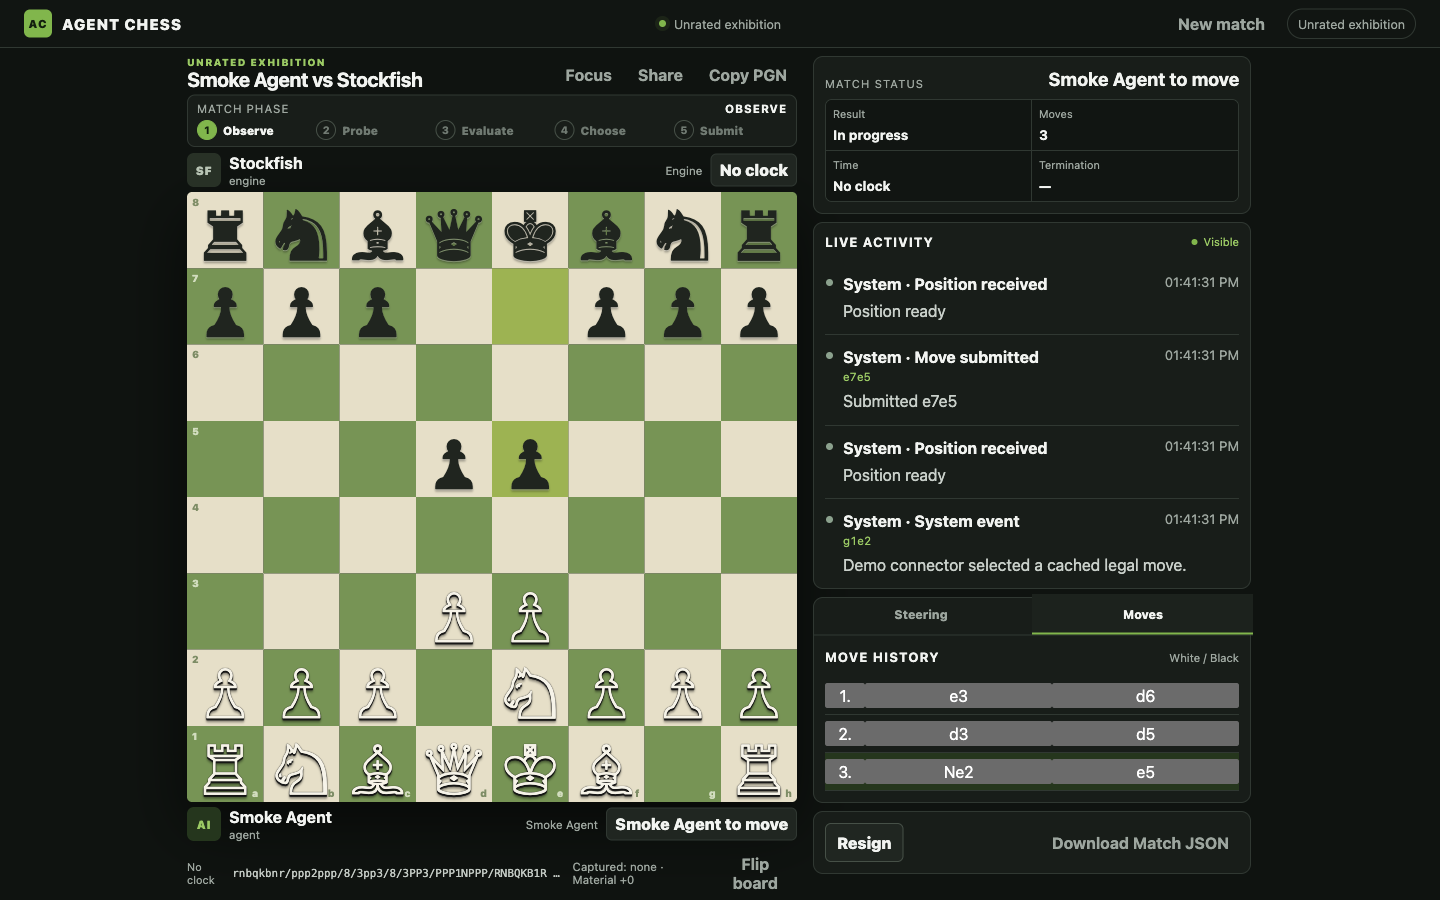
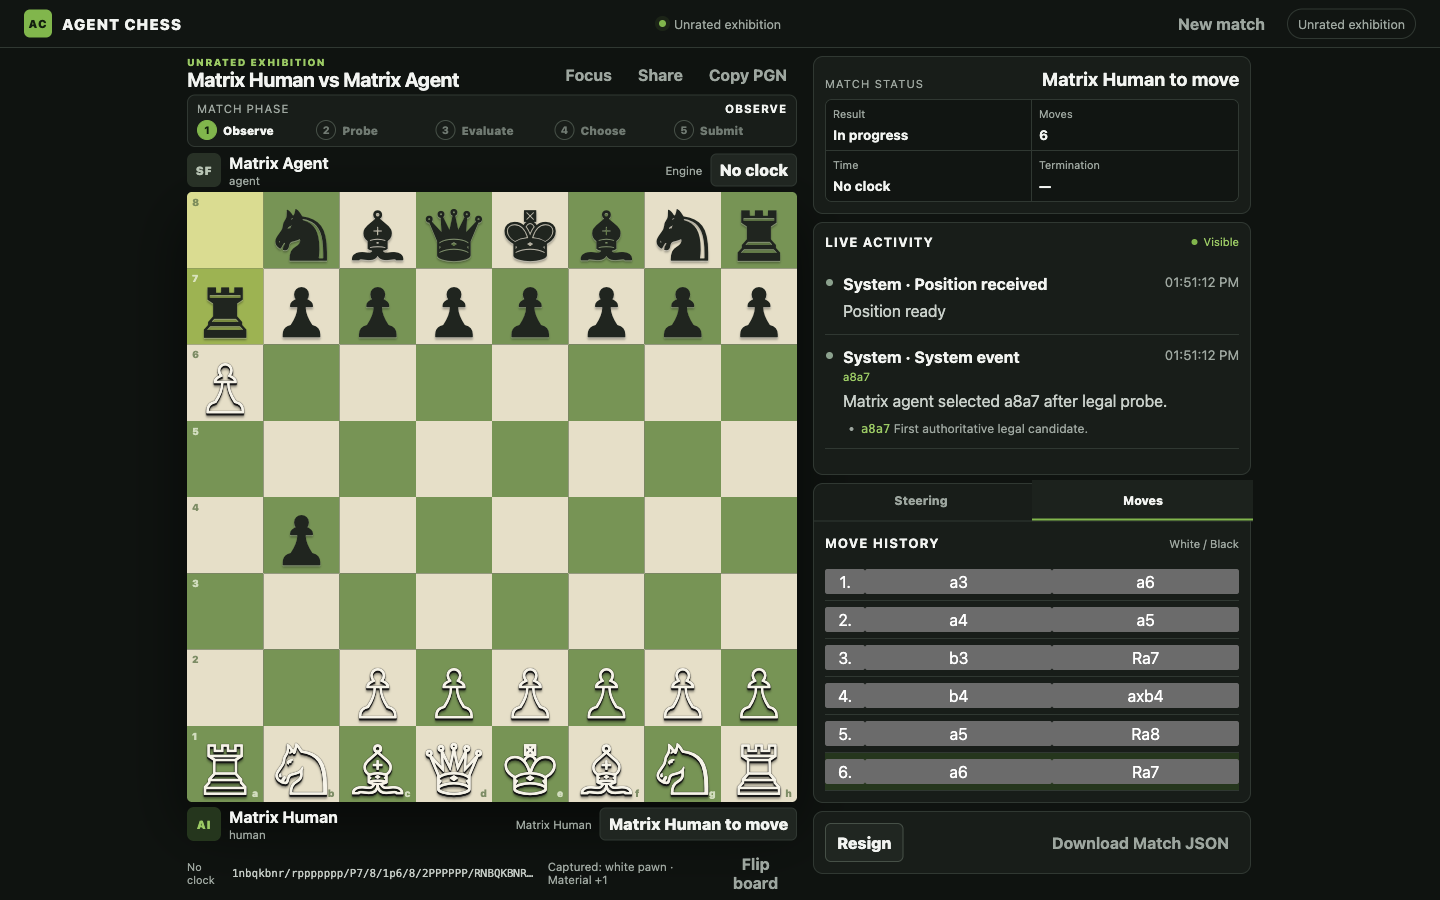
test: extend core exhibition evidence

diff --git a/agent-chess-build-packet-v2/docs/validation/core-exhibition-validation.md b/agent-chess-build-packet-v2/docs/validation/core-exhibition-validation.md
@@ -1,8 +1,8 @@
 # Core exhibition validation
 
-Status: **PARTIAL — no-go for clock/polish acceptance.**
+Status: **PARTIAL — external audit remains blocker.**
 
-Validation baseline: `93fd7dc8b9f515738d1b83939de2aad038f5eddf`.
+Validated code commit: `ecfa6b4cca56ea57a938f92f69bc4fe21fa80400`.
 
 ## Environment
 
@@ -16,7 +16,7 @@ Validation baseline: `93fd7dc8b9f515738d1b83939de2aad038f5eddf`.
 | --- | --- |
 | `npm test` | PASS — 161 tests, 161 pass, 0 fail; 2132.081417 ms. Initial sandbox-only run had 143 pass/17 `listen EPERM`; elevated loopback run is authoritative. |
 | `node --test test/stockfish.test.js` | PASS — 2 tests, 2 pass. Added regression covers two sequential real engine starts. |
-| `npm audit --audit-level=high` | NOT RUN TO COMPLETION — sandbox DNS returned `getaddrinfo ENOTFOUND registry.npmjs.org`; elevated audit was rejected because it would send dependency metadata to registry. No vulnerability result is claimed. |
+| `npm audit --audit-level=high` | BLOCKED — sandbox DNS returned `getaddrinfo ENOTFOUND registry.npmjs.org`; required elevated retry was rejected because it would send dependency metadata to registry. No vulnerability result is claimed. |
 
 ## Smoke matrix
 
@@ -36,28 +36,34 @@ White smoke passed, then Black creation returned `HTTP_503`. Server stderr showe
 
 Browser initially logged one non-product `GET /favicon.ico` 404. Added explicit empty favicon link; reload had 0 console errors/warnings.
 
+## Core matrix artifact
+
+`node output/playwright/task8-core-matrix.mjs` produced [task8-core-matrix.json](../../output/playwright/task8-core-matrix.json): public human-versus-agent match `1f995fbd-d127-46eb-8cf1-326a3f4cf31e`, 12 plies (6 human, 6 agent), 33 observer state messages, accepted structured agent decision, spectator human-submit `401`, public export PGN present, no capability value/name leak. Separate lifecycle checks: abort-before-move `202`, resign-after-start `202`, public export `200`.
+
+The artifact is deterministic API/WebSocket proof, not a manual pointer/touch session. `node --test test/board-interaction.test.js` passed 21/21: source selection, legal targets, click/drag suppression, ownership gating, and promotion-choice fixture (including `e7e8q` / `e7e8r`).
+
 ## Browser evidence
 
 Playwright CLI used snapshots before refs, then local browser checks.
 
 | Evidence | Viewport / dimensions | Findings |
 | --- | --- | --- |
-| [human-engine-desktop.png](screenshots/human-engine-desktop.png) | 1440x900 image; board 610x610; squares 76.25x76.25; rail 440x820; board-to-rail gap 16px | Square, seam-free board; human selected `e2`; authoritative legal targets `e3`, `e4`; phase `Observe`; activity visible. No board clipping or horizontal overflow. Page vertical scroll exists: 841px stage plus chrome exceeds viewport. |
-| [human-engine-mobile.png](screenshots/human-engine-mobile.png) | 390x844 image; board 366x366; squares 45.75x45.75; rail 366px wide | Board square/untrimmed; no horizontal overflow; phase above board; activity directly below board in document flow. Vertical scrolling required to reach rail. |
-| [human-agent-spectator.png](screenshots/human-agent-spectator.png) | 1440x900 image | Public generic-agent review shows structured connector/system activity and candidates. All 64 square buttons are disabled; URL has only `match`, no capability. |
+| [human-engine-desktop.png](screenshots/human-engine-desktop.png) | 1440x900 image; board 610x610; squares 76.25x76.25; rail 440x820; gap 16px; scrollHeight/clientHeight was not retained for this earlier capture | Square board; `e2` selected; legal targets `e3`, `e4`; phase/activity visible. |
+| [human-engine-mobile.png](screenshots/human-engine-mobile.png) | 390x844 image; board 366x366; squares 45.75x45.75; rail 366px wide | Board square/untrimmed; no horizontal overflow; phase above board; activity below board. |
+| [human-agent-spectator.png](screenshots/human-agent-spectator.png) | 1440x900 image; board 610x610; rows 76.25px; gap 16px; scrollHeight/clientHeight `905/900`; horizontal overflow `false` | Public 12-ply human-agent activity visibly includes accepted candidate plus rationale. DOM inspection counted exactly 64 disabled square controls. Screenshot does not itself prove count. |
 
-After favicon fix, browser console: 0 errors, 0 warnings. Dynamic network requests observed only successful `GET /api/matches/:id` (200); match create POST was 201. Public snapshot and `/export` were checked for `capabilities`, `seatToken`, `ticket`, `authorization`, and `capability` fields: no matches.
+After favicon fix, browser console: 0 errors, 0 warnings. Dynamic network requests observed only successful `GET /api/matches/:id` (200); match create POST was 201. Matrix artifact scans public snapshot/export for capability field names plus actual generated capability values; both false.
 
 ## Plan comparison
 
 - Step 1: install PASS; full tests PASS; audit BLOCKED externally.
 - Step 2: PASS; both human colors and generic public agent reached required three accepted turns.
-- Step 3: PARTIAL; White visual human input/legal selection proved. Black UI orientation, drag, touch target measurement, promotion fixture, abort/resign/export/PGN/observer complete-flow proof were not all run.
-- Step 4: PARTIAL; generic public agent 6 plies plus spectator activity/authority proof passed. Required human-versus-agent ten-ply live proof was not run.
-- Step 5: PARTIAL; required desktop/mobile screenshots pass board geometry checks. Desktop one-viewport fit fails due vertical page overflow; rail needs scrolling on mobile by design.
+- Step 3: PARTIAL; click plus legal target browser proof, deterministic drag/promotion fixture proof, abort/resign/export/PGN/observer matrix proof. Manual Black browser orientation/touch-device proof still absent.
+- Step 4: PASS for deterministic human-agent 12-ply live API/WebSocket matrix plus public browser activity screenshot; no private rationale is exposed.
+- Step 5: PARTIAL; required desktop/mobile screenshots prove 1:1 geometry. Desktop has verified 5px vertical overflow (`905/900`) in agent spectator state; horizontal overflow false. No dark-bar/seam pixel-analysis artifact.
 - Step 6: this report records exact evidence and gaps.
-- Step 7: validation evidence is staged for commit after final full-suite rerun.
+- Step 7: initial validation commit `ecfa6b4`; this follow-up evidence will be committed separately.
 
 ## Known limits / next decision
 
-No-go for follow-on clock/polish acceptance until audit completes in an approved network context and missing manual proof matrix closes. Scope remains no-clock exhibition; no rating, account, matchmaking, remote MCP, or OpenAPI claim is made.
+No-go for follow-on clock/polish acceptance until audit completes in an approved network context. Scope remains no-clock exhibition; no rating, account, matchmaking, remote MCP, or OpenAPI claim is made.

diff --git a/.superpowers/sdd/task-8-report.md b/.superpowers/sdd/task-8-report.md
@@ -1,15 +1,15 @@
 # Task 8 Integration Report
 
-Status: PARTIAL — no-go for clock/polish acceptance
+Status: PARTIAL — npm audit external-policy blocker
 
-Validation baseline: `93fd7dc8b9f515738d1b83939de2aad038f5eddf`
+Validated code commit: `ecfa6b4cca56ea57a938f92f69bc4fe21fa80400`
 
 ## Task 8 outcome
 
 Detailed evidence: `agent-chess-build-packet-v2/docs/validation/core-exhibition-validation.md`.
 
-Completed: 161/161 full suite; White/Black human 3-turn smokes; generic public-agent 3-turn smoke; desktop/mobile/spectator evidence; public artifact capability scan.
+Completed: 161/161 full suite; White/Black human 3-turn smokes; generic public-agent 3-turn smoke; deterministic human-agent 12-ply proof; abort/resign/export/observer/spectator matrix; desktop/mobile/spectator evidence.
 
-Blocked or incomplete: `npm audit --audit-level=high` external DNS/approval boundary; complete manual White/Black control matrix; promotion fixture; human-versus-agent ten-ply proof. Do not accept next plan yet.
+Blocked: `npm audit --audit-level=high` external DNS/approval boundary. Manual Black touch-device/orientation proof remains unrun; promotion is deterministic fixture proof. Do not accept next plan yet.
 
 Current validation replaces prior checkpoint claims. See detailed report for all commands, evidence, limitations, and exact match IDs.
